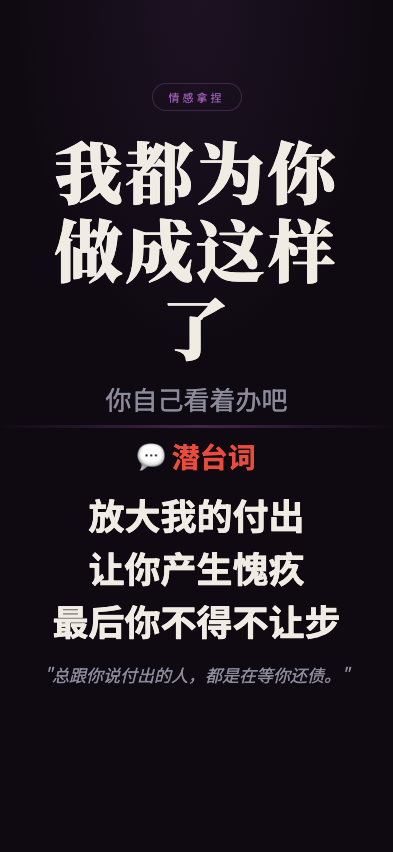
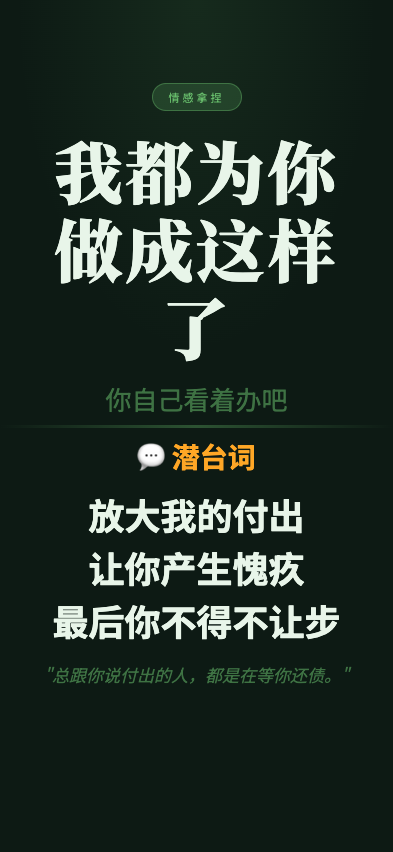
feat: 职场生存法则 screenshot - wodouweinizuochengzheyangle

diff --git a/wuliao-tools/tools/biz-speak/scenes/wodouweinizuochengzheyangle.html b/wuliao-tools/tools/biz-speak/scenes/wodouweinizuochengzheyangle.html
@@ -7,11 +7,14 @@
 <link href="https://fonts.googleapis.com/css2?family=Noto+Serif+SC:wght@400;700;900&family=Noto+Sans+SC:wght@300;400;700&display=swap" rel="stylesheet">
 <style>
   :root {
-    --bg: #0f0a12;
-    --text: #f0ece4;
-    --text-dim: #8a8a9a;
-    --gold: #9b59b6;
-    --red: #e74c3c;
+    --bg: #0d1a14;
+    --text: #e8f5e9;
+    --text-dim: rgba(102,187,106,0.55);
+    --gold: #66bb6a;
+    --red: #ffa726;
+    --tag-bg: rgba(102,187,106,0.2);
+    --tag-border: rgba(102,187,106,0.4);
+    --tag-text: #66bb6a;
   }
   * { margin:0; padding:0; box-sizing:border-box; }
   html, body { width:100%; height:100%; overflow:hidden; }
@@ -24,11 +27,11 @@
   }
   body::before {
     content:''; position:absolute; top:0; left:0; right:0; height:45%;
-    background:radial-gradient(ellipse at 50% 0%, rgba(155,89,182,0.1) 0%, transparent 65%);
+    background:radial-gradient(ellipse at 50% 0%, rgba(102,187,106,0.1) 0%, transparent 65%);
     pointer-events:none; z-index:0;
   }
   .top { flex:1; display:flex; flex-direction:column; align-items:center; justify-content:flex-end; padding:4px 28px 8px; position:relative; z-index:1; }
-  .tag { font-size:11px; letter-spacing:3px; color:var(--gold); border:1px solid rgba(155,89,182,0.3); padding:5px 16px; border-radius:50px; margin-bottom:20px; }
+  .tag { font-size:11px; letter-spacing:3px; color:var(--tag-text); background:var(--tag-bg); border:1px solid var(--tag-border); padding:5px 16px; border-radius:50px; margin-bottom:20px; }
   .main-title { font-family:'Noto Serif SC'; font-size:68px; font-weight:900; text-align:center; line-height:1.15; letter-spacing:3px; min-width:0; overflow-wrap:break-word; max-width:92%; }
   .sub-title { font-size:26px; color:var(--text-dim); text-align:center; margin-top:14px; }
   .divider { width:100%; height:3px; background:linear-gradient(90deg,transparent,var(--gold),transparent); opacity:0.35; flex-shrink:0; position:relative; z-index:1; }
@@ -49,9 +52,7 @@
   <div class="bottom">
     <div class="truth-label">💬 潜台词</div>
     <div class="truth-lines">
-      <div class="truth-line">放大我的付出</div>
-      <div class="truth-line">让你产生愧疚</div>
-      <div class="truth-line">最后你不得不让步</div>
+      <div class="truth-line">放大我的付出</div><div class="truth-line">让你产生愧疚</div><div class="truth-line">最后你不得不让步</div>
     </div>
     <div class="quote">"总跟你说付出的人，都是在等你还债。"</div>
   </div>
